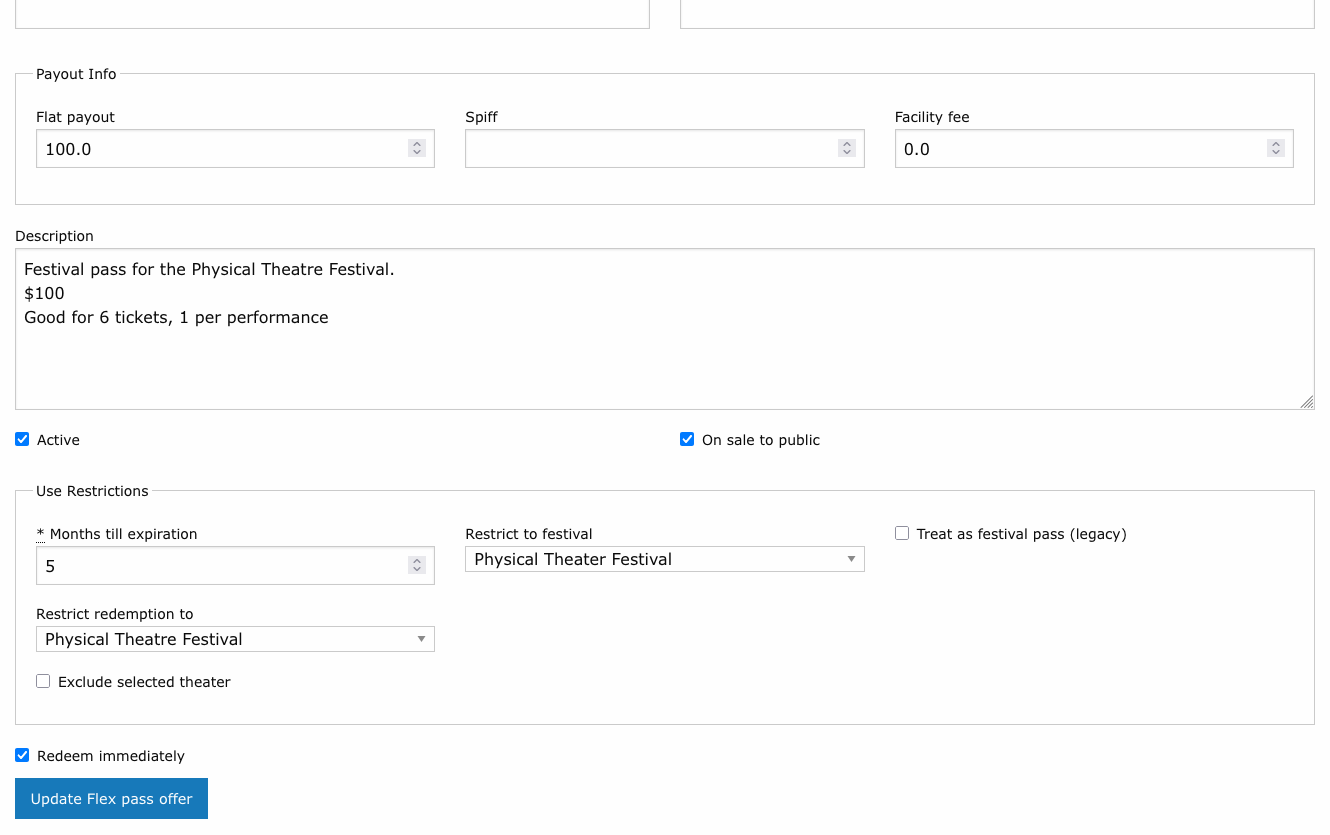
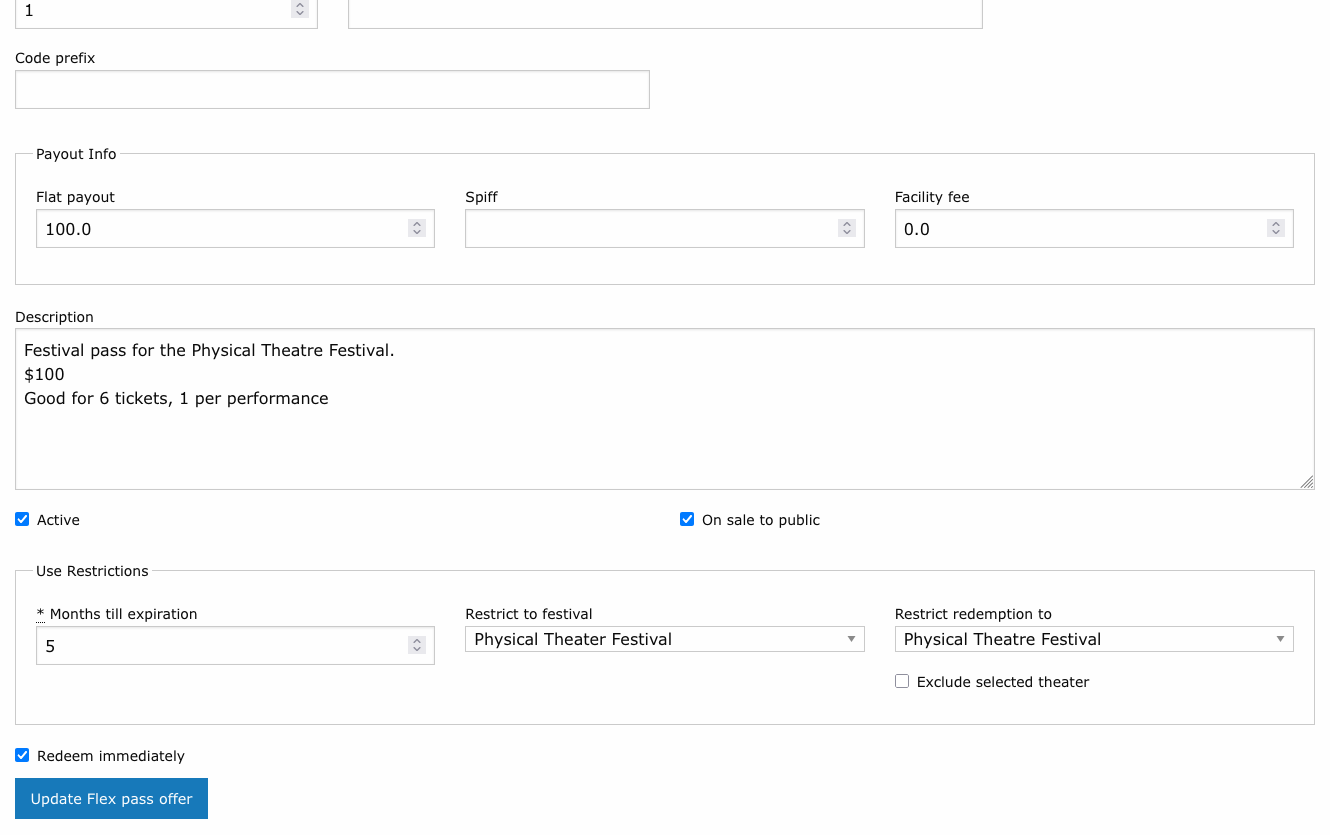
docs: document flex pass redemption caps and legacy festival-pass removal
Documents Maximum Uses Per Performance alongside the production cap
(fields, list labels, festival pairing patterns), refreshes the offer
form and Use Restrictions screenshots, adds a caps-labels list
screenshot, and replaces stale Treat-as-Festival-Pass / Festival Pass
Offer references with the Festival dropdown flow.

diff --git a/docs/manual/offers/flex-pass-offers.md b/docs/manual/offers/flex-pass-offers.md
@@ -29,11 +29,12 @@ A flex pass is a prepaid ticket package. The patron purchases a set number of ti
 | Field | Description |
 |-------|-------------|
 | **Use Ticket Class Code** | The ticket class assigned when a flex pass ticket is redeemed. Selected from the list of Default Ticket Classes. |
-| **Maximum Uses Per Production** | Limits how many pass tickets can be redeemed for a single production. Leave blank for no limit. |
+| **Maximum Uses Per Production** | Limits how many pass tickets can be redeemed for a single production, across all of its performances. Leave blank (or 0) for no limit. |
+| **Maximum Uses Per Performance** | Limits how many pass tickets can be redeemed for any single performance. Leave blank (or 0) for no limit. |
 | **Code Prefix** | Optional prefix added to generated flex pass codes for easy identification (e.g., `FP2026-`). |
 
 !!! tip "Controlling redemption spread"
-    Set **Maximum Uses Per Production** to encourage patrons to attend a variety of shows rather than using all tickets on a single production.
+    The two limits are independent and can be combined. Set **Maximum Uses Per Production** to encourage patrons to attend a variety of shows rather than using all tickets on a single production -- for example, a limit of 2 lets a pair attend any one show together. Set **Maximum Uses Per Performance** for festival-style passes where each ticket should cover a different performance -- for example, a 6-ticket festival pass limited to 1 ticket per performance.
 
 ### Visibility and Status
 
@@ -64,8 +65,10 @@ A flex pass is a prepaid ticket package. The patron purchases a set number of ti
 
 | Field | Description |
 |-------|-------------|
-| **Treat as Festival Pass** | When enabled, the pass behaves as a festival pass -- all tickets are redeemed at once for a set of performances rather than individually over time. |
 | **Redeem Immediately** | When enabled, the system prompts the patron to select performances and redeem tickets immediately at the time of purchase. |
+
+!!! note "Festival passes"
+    To create a festival pass, use the **Restrict to festival** dropdown in the Use Restrictions fieldset (see [Festival Passes & Membership Caps](../festivals/passes-and-membership-caps.md)). The former **Treat as Festival Pass** checkbox has been removed.
 
 ### Descriptions
 
@@ -102,10 +105,10 @@ Click the **x** on any pill to remove that tag. Tags are matched case-insensitiv
 4. A ticket is issued using the **Use Ticket Class Code** defined on the offer.
 5. The remaining ticket count on the pass decreases by one.
 
-If **Maximum Uses Per Production** is set, the system enforces that limit across all redemptions for that production.
+If **Maximum Uses Per Production** or **Maximum Uses Per Performance** is set, the system enforces those limits across all of the pass's redemptions -- an order that would exceed a limit is refused with a message stating how many tickets the pass allows per production or per performance. Refunded and cancelled orders do not count toward either limit.
 
 !!! tip "Festival pass redemption"
-    When **Treat as Festival Pass** is enabled, the patron selects all performances at once. This is ideal for multi-show festivals where attendees pick their full schedule upfront.
+    For multi-show festivals, combine **Restrict to festival** with **Maximum Uses Per Performance** (typically 1) so each pass ticket covers a different festival performance.
 
 ---
 
@@ -134,8 +137,12 @@ The **Restrictions** column summarizes an offer's status and scope using small l
 | Red **Inactive** | The offer's **Active** checkbox is unchecked -- it cannot be purchased or redeemed. |
 | Blue **Only [Theater]** | Redemption is restricted to the named theater (the **Theater** field with **Exclude Theater** unchecked). |
 | Blue **All but [Theater]** | Redemption is allowed everywhere except the named theater (the **Theater** field with **Exclude Theater** checked). |
+| Blue **Max N/production** | At most *N* pass tickets can be redeemed per production (**Maximum Uses Per Production**). |
+| Blue **Max N/performance** | At most *N* pass tickets can be redeemed per performance (**Maximum Uses Per Performance**). |
 
-An offer can show both an Inactive label and a theater-restriction label at the same time.
+An offer can show several labels at once -- for example, a festival pass restricted to one theater with both redemption caps set:
+
+![Flex pass offers list filtered to festival passes, showing theater-restriction and Max-per-production/performance labels together](../assets/images/screenshots/offers-flex-pass-caps-labels.png)
 
 ---
 

diff --git a/docs/manual/festivals/passes-and-membership-caps.md b/docs/manual/festivals/passes-and-membership-caps.md
@@ -18,10 +18,21 @@ When a patron redeems a festival-restricted pass for a show outside the festival
 > That FlexPass is only valid for {Festival Name} shows. Please contact our box office for details.
 
 !!! warning "Festival restriction stacks with the other gates"
-    The festival gate is **additional** -- it never replaces the pass's existing rules. Theater restrictions, ticket class, expiration, and Maximum Uses Per Production all still apply exactly as before. A pass restricted to both a theater and a festival must satisfy both.
+    The festival gate is **additional** -- it never replaces the pass's existing rules. Theater restrictions, ticket class, expiration, and the Maximum Uses Per Production / Per Performance limits all still apply exactly as before. A pass restricted to both a theater and a festival must satisfy both.
+
+## Limiting Tickets per Show
+
+Festival passes usually pair the festival restriction with a redemption cap from the flex pass offer form (see [Flex Pass Offers](../offers/flex-pass-offers.md)):
+
+| Goal | Setting |
+|------|---------|
+| One seat at every festival show | **Maximum Uses Per Performance** = 1, with **Number of Tickets** equal to the number of shows. |
+| See any festival show, alone or with a guest | **Maximum Uses Per Production** = 2. |
+
+Both caps may be set together -- for example, per-performance 1 with per-production 2 lets a patron use the pass at two different performances of the same show, but never two seats at once.
 
 !!! note "Legacy festival passes"
-    Before festivals existed, the **Treat as Festival Pass** flag and per-production pass links approximated this behavior. Those settings still work for existing offers and are labeled "(legacy)" on the forms; new offers should use the **Festival** dropdown instead.
+    Before festivals existed, a **Treat as Festival Pass** flag and per-production pass links approximated this behavior. That mechanism has been removed; festival grouping now comes solely from the **Festival** dropdown on the production form and the **Restrict to festival** dropdown here.
 
 ## Capping Membership Advance Bookings
 

diff --git a/docs/manual/productions/creating-a-production.md b/docs/manual/productions/creating-a-production.md
@@ -143,9 +143,9 @@ These fields override the theater-level default service fees for this production
 
 ## Form Fields: Sales
 
-### Flex Pass Offer
+### Festival
 
-Associate a festival pass offer with this production, allowing flex pass holders to redeem tickets.
+Link the production to a festival. Festival membership groups the production with its festival-mates on public pages and lets festival-restricted flex passes redeem tickets for it. See [Festivals Overview](../festivals/festivals-overview.md).
 
 ### Conversion Pixel Code
 